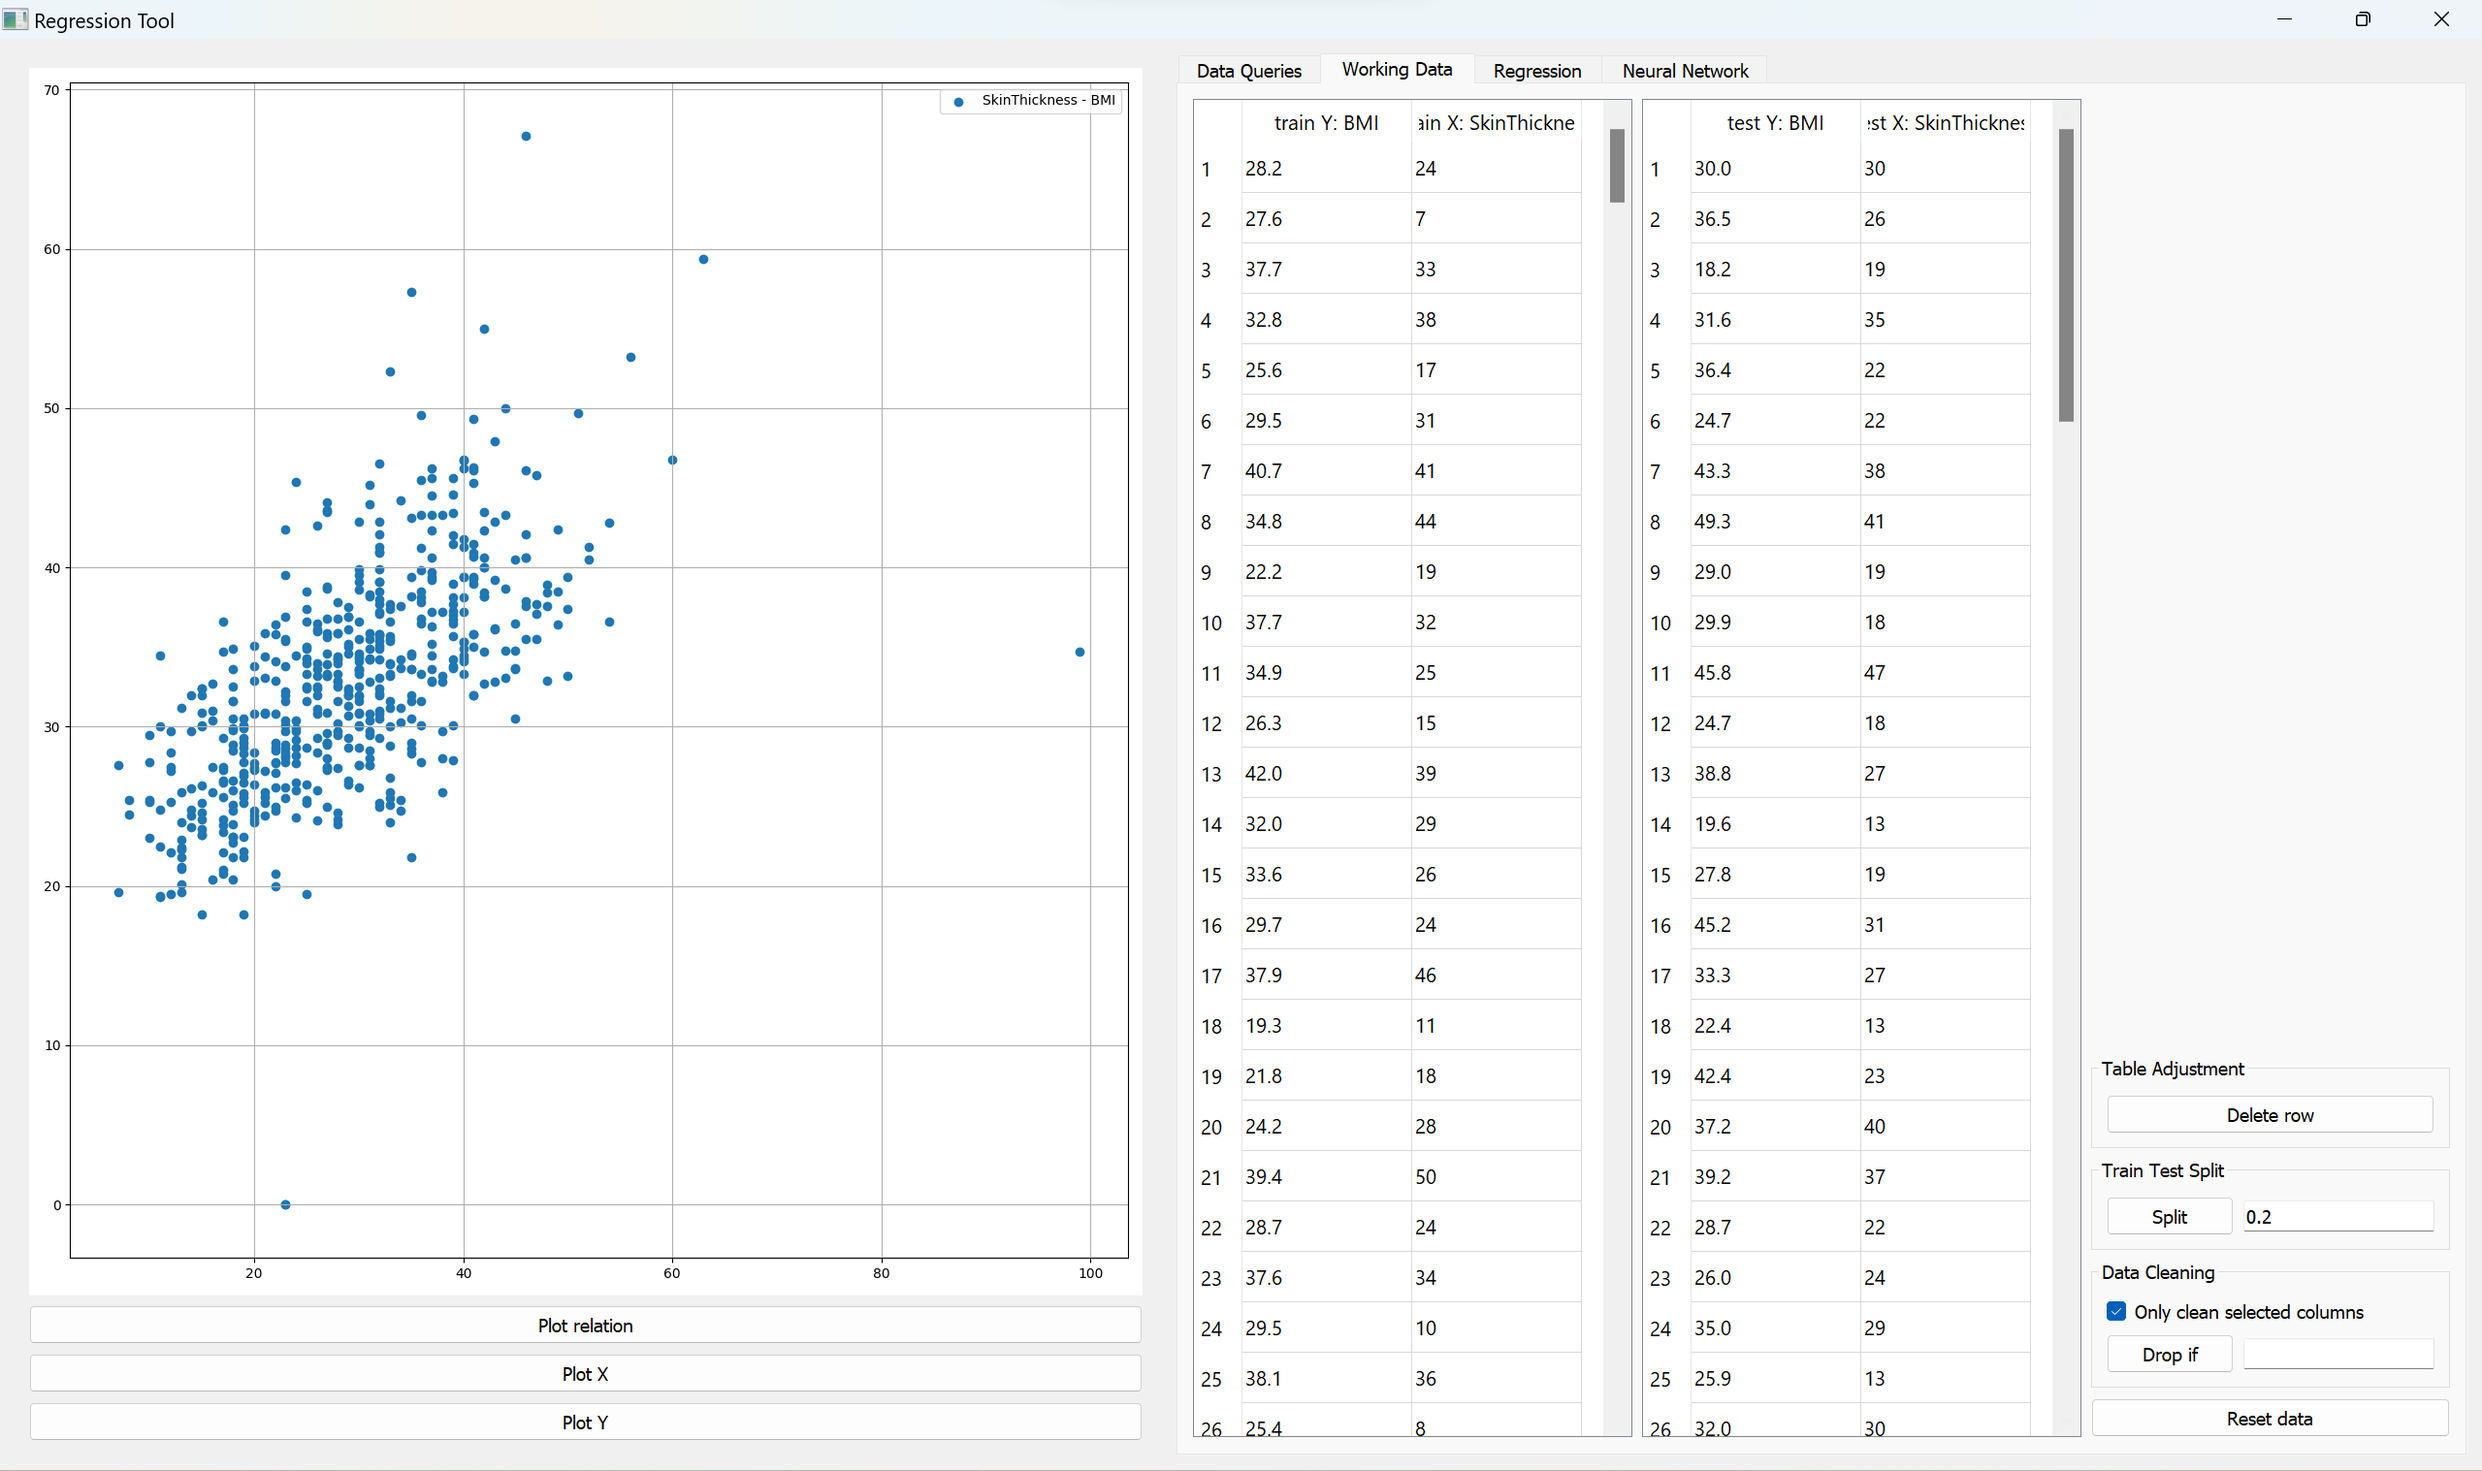
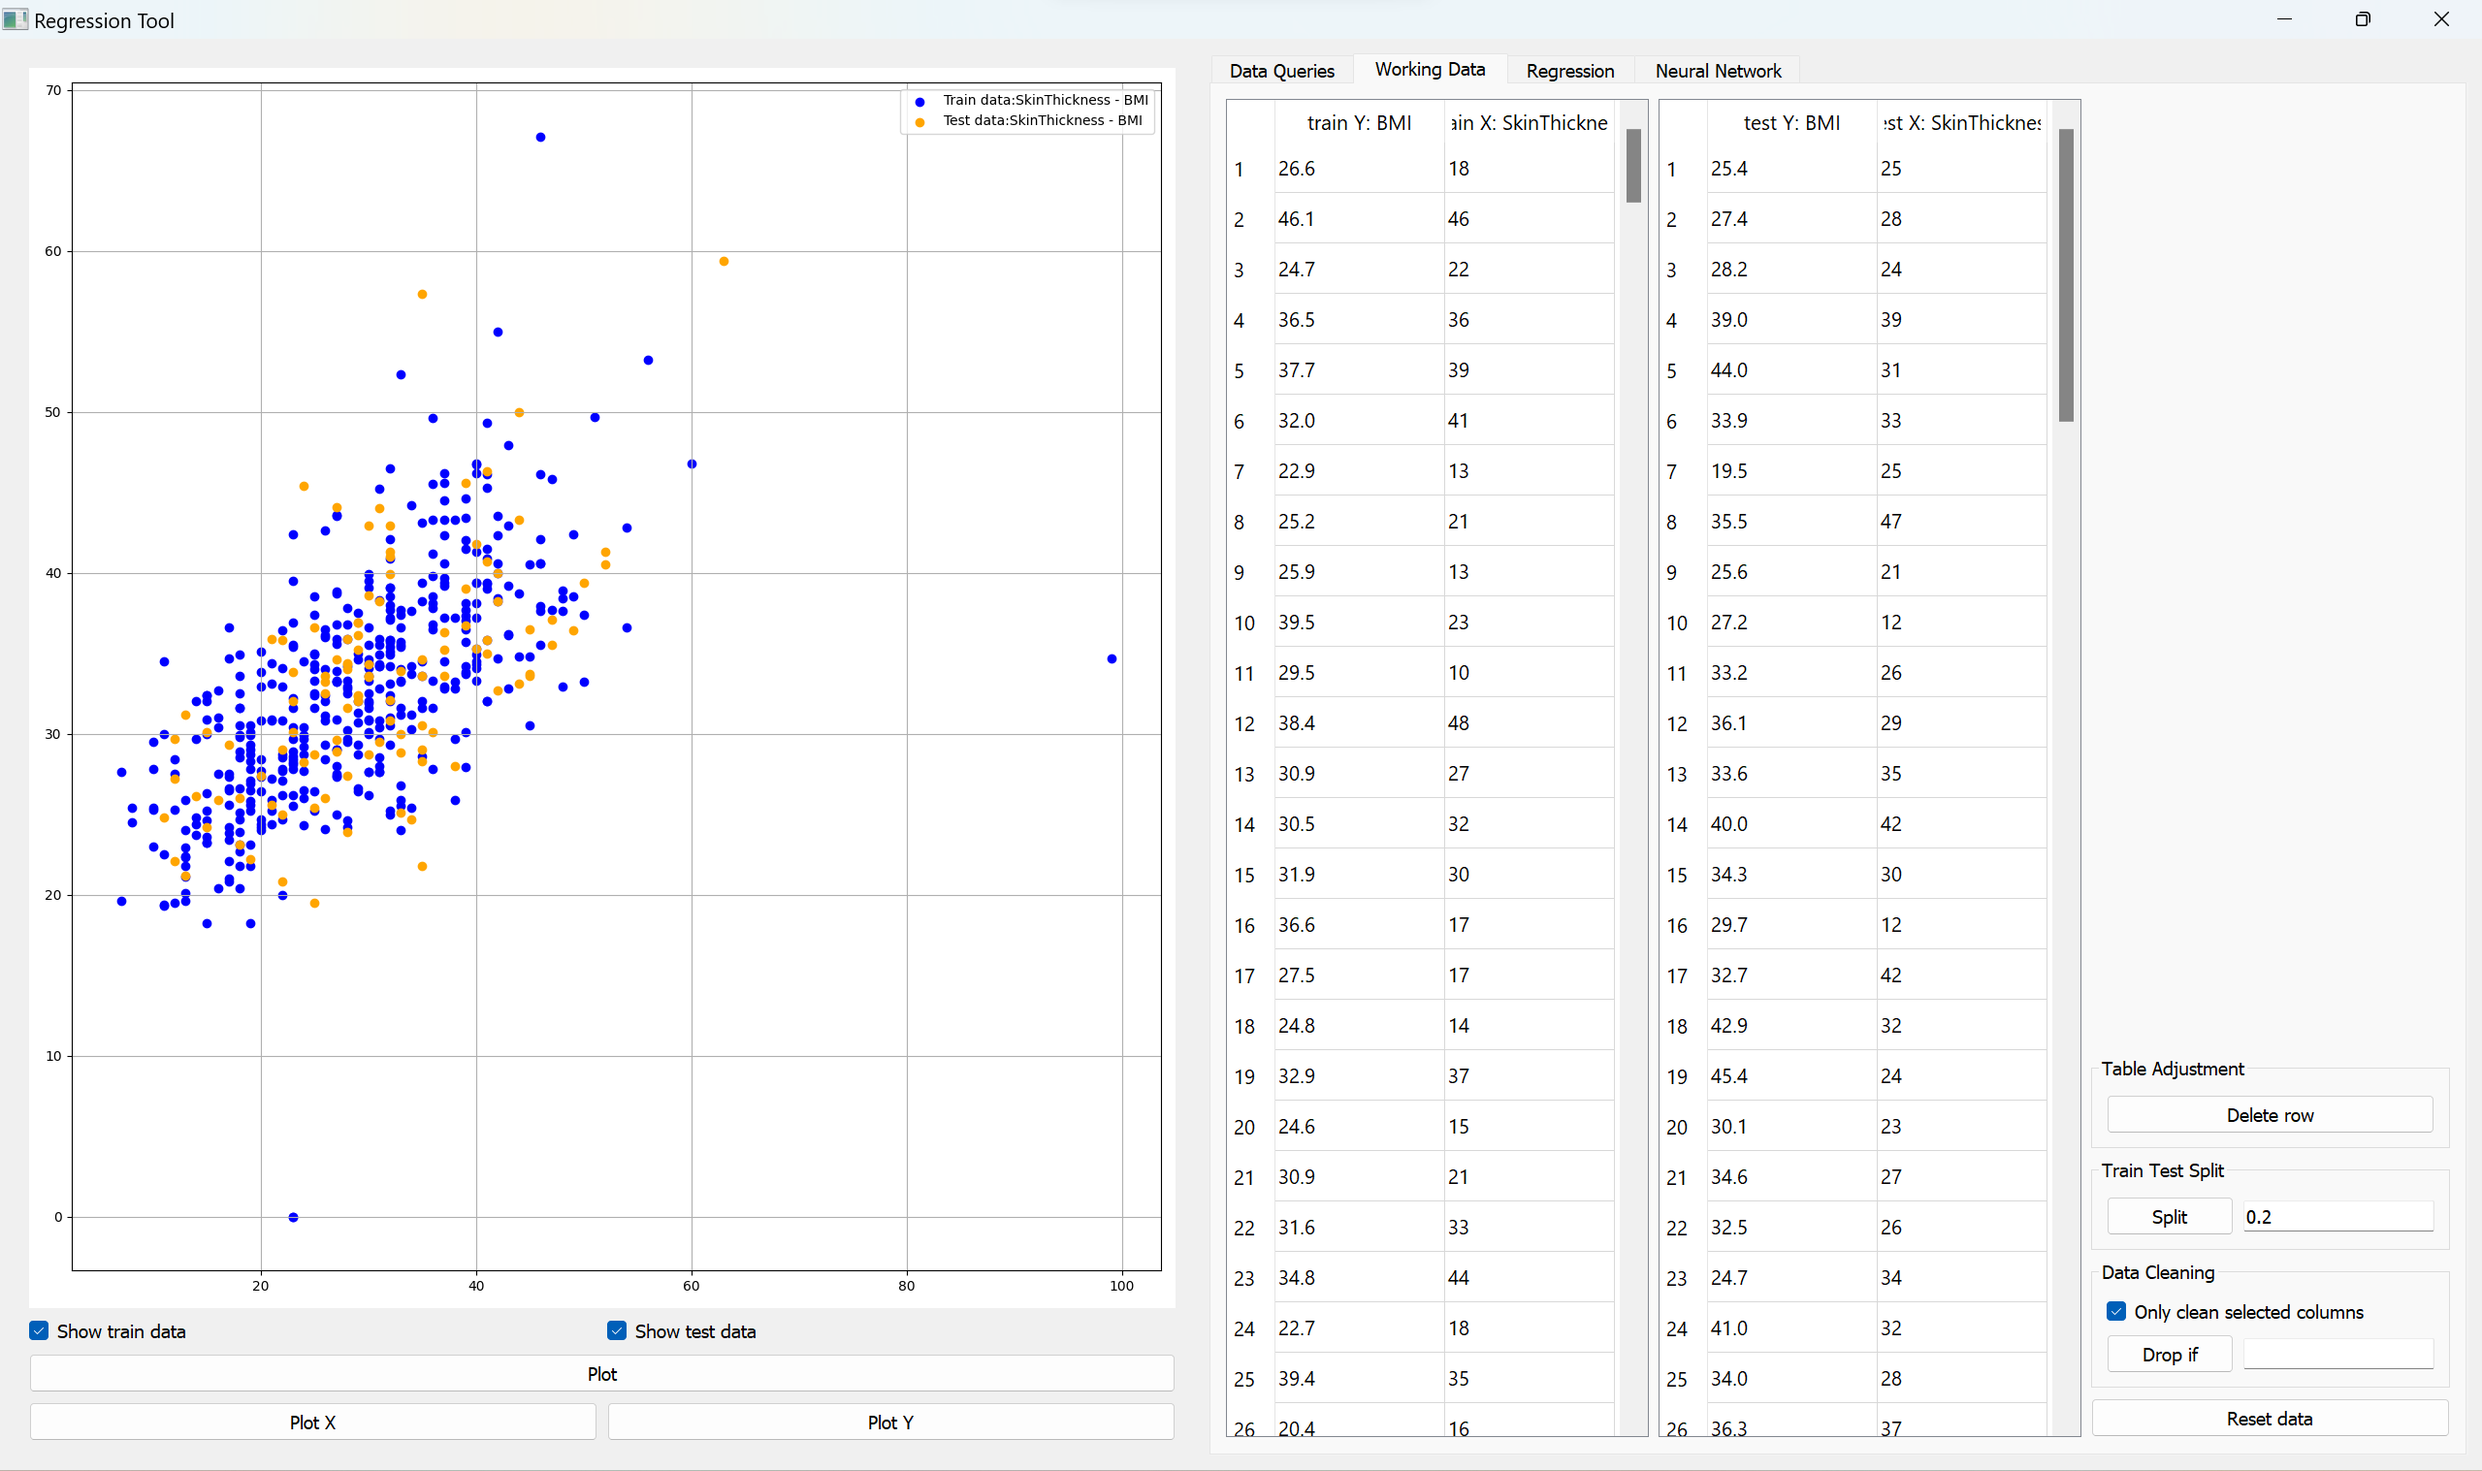
Enable neura network costumization

diff --git a/src/application/mpl_canvas.py b/src/application/mpl_canvas.py
@@ -1,5 +1,4 @@
 from matplotlib.backends.backend_qt5agg import FigureCanvasQTAgg
-from matplotlib.backends.backend_qt5agg import NavigationToolbar2QT
 from matplotlib.figure import Figure
 import numpy as np
 from sklearn.neural_network import MLPRegressor
@@ -39,22 +38,19 @@ class MPLCanvas(QWidget):
     def plot(self):
         self.ax.cla()
 
-        data = [None, None]
         show_train = self.show_train.isChecked()
         show_test = self.show_test.isChecked()
 
-        if show_test and show_train:
-            data[0] = self.plt_data.get_X_col()
-            data[1] = self.plt_data.get_Y_col()
-        elif show_train:
-            data[0] = self.plt_data.x_train
-            data[1] = self.plt_data.y_train
-        elif show_test:
-            data[0] = self.plt_data.x_test
-            data[1] = self.plt_data.y_test
-            
-        label = f"{self.plt_data.columns()[1]} - {self.plt_data.columns()[0]}"
-        self.ax.scatter(data[0], data[1], label=label)
+        x_label = self.plt_data.columns()[1]
+        y_label = self.plt_data.columns()[0]
+
+        if show_train:
+            self.ax.scatter(self.plt_data.x_train, self.plt_data.y_train, label=f"Train data:{x_label} - {y_label}",
+                            c="blue")
+        if show_test:
+            self.ax.scatter(self.plt_data.x_test, self.plt_data.y_test, label=f"Test data:{x_label} - {y_label}",
+                            c="orange")
+
         self.ax.grid(True)
         self.ax.legend()
         self.can.figure.tight_layout()
@@ -63,18 +59,16 @@ class MPLCanvas(QWidget):
     def plot_X(self):
         self.ax.cla()
 
-        label = f"{self.plt_data.columns()[1]}"
-        self.ax.hist(self.plt_data.get_X_col(), label=label, bins=20)
-        self.ax.legend()
+        self.ax.hist(self.plt_data.get_X_col(), bins=20)
+        self.ax.set_xlabel(self.plt_data.columns()[1])
         self.can.figure.tight_layout()
         self.can.draw()
 
     def plot_Y(self):
         self.ax.cla()
 
-        label = f"{self.plt_data.columns()[0]}"
-        self.ax.hist(self.plt_data.get_Y_col(), label=label, bins=20)
-        self.ax.legend()
+        self.ax.hist(self.plt_data.get_Y_col(), bins=20)
+        self.ax.set_xlabel(self.plt_data.columns()[0])
         self.can.figure.tight_layout()
         self.can.draw()
 

diff --git a/src/application/tabs/ann_controller.py b/src/application/tabs/ann_controller.py
@@ -1,4 +1,4 @@
-from PyQt5.QtWidgets import (QWidget, QPushButton,
+from PyQt5.QtWidgets import (QWidget, QPushButton, QLineEdit,
         QTableWidget, QGridLayout, QGroupBox, QLabel, QTextEdit,
         QVBoxLayout, QComboBox)
 from PyQt5.QtCore import Qt
@@ -25,8 +25,7 @@ class ANNController(QWidget):
         self.fit_btn = btn_factory("fit", self.fit_plt_data)
         self.famile_cbbox = QComboBox()
         self.famile_cbbox.addItems(["linear", "logistic", "poisson"])
-        self.degree_cbbox = QComboBox()
-        self.degree_cbbox.addItems([str(i) for i in range(1,6)])
+        self.hidden_layer_entry = QLineEdit()
         self.summary = QTextEdit()
         font = self.summary.currentFont()
         font.setPointSize(10)
@@ -38,29 +37,34 @@ class ANNController(QWidget):
         self.history_ax = self.history_can.figure.add_subplot(111)
 
     def layout(self):
-        family_label = QLabel("Family=")
-        degree_label = QLabel("Degree=")
+        hidden_layer_label = QLabel("Hidden layer information")
 
-        family_layout = couple_layout(family_label, self.famile_cbbox)
-        degree_layout = couple_layout(degree_label, self.degree_cbbox)
+        hidden_layer_layout = couple_layout(hidden_layer_label, self.hidden_layer_entry)
 
         layout = QVBoxLayout()
         layout.addStretch()
         layout.addWidget(self.history_can)
         layout.addWidget(self.summary)
-        layout.addLayout(family_layout)
-        layout.addLayout(degree_layout)
+        layout.addLayout(hidden_layer_layout)
         layout.addWidget(self.fit_btn)
 
         self.setLayout(layout)
 
     def fit_plt_data(self):
-        model, history = ann.fit(self.plt_data, [10,4,4], self.summary)
+        layer_data = string_to_num_list(self.hidden_layer_entry.text())
+        if layer_data is None:
+            return
+
+        model, history = ann.fit(self.plt_data, layer_data)
         loss_history = history.history['loss']
+
+        self.summary.setText(ann.get_model_summary(model))
 
         self.canvas.plot_ann_model(model)
         
         self.history_ax.cla()
         self.history_ax.plot(loss_history)
+        self.history_ax.set_xlabel("Epoch")
+        self.history_ax.set_ylabel("Loss")
         self.history_can.figure.tight_layout()
         self.history_can.draw()

diff --git a/src/logic/ann.py b/src/logic/ann.py
@@ -1,21 +1,27 @@
-import io
-from contextlib import redirect_stdout
 from keras import models
 from keras import layers
 
 from logic.plot_data import PlotData
 
-def fit(plt_data: PlotData, layer_data, textbox):
+def fit(plt_data: PlotData, layer_data):
 
     model = models.Sequential()
-    model.add(layers.Dense(16, activation="relu", input_shape=(1, )))
-    model.add(layers.Dense(16, activation="sigmoid"))
+
+    first_layer = True
+    for N in layer_data:
+        if first_layer:
+            model.add(layers.Dense(N, activation="relu", input_shape=(1, )))
+            first_layer = False
+        else:
+            model.add(layers.Dense(N, activation="relu"))
     model.add(layers.Dense(1, activation="relu"))
 
     model.compile(optimizer='adam', loss='mean_squared_error')
+    history = model.fit(plt_data.x_train, plt_data.y_train, epochs=10, batch_size=32, verbose=2)
 
-    buffer = io.StringIO()
-    with redirect_stdout(buffer):
-        history = model.fit(plt_data.x_train, plt_data.y_train, epochs=10, batch_size=32, verbose=2)
-        textbox.setText(buffer.getvalue())
     return model, history
+
+def get_model_summary(model):
+    string_list = []
+    model.summary(line_length=50, print_fn=lambda x: string_list.append(x))
+    return "\n".join(string_list)

diff --git a/src/util/app_util.py b/src/util/app_util.py
@@ -35,3 +35,9 @@ def get_selected_columns(table: QTableWidget):
             if table.item(row, col).isSelected():
                 indices.append(col)
     return indices
+
+def string_to_num_list(string: str):
+    try:
+        return [int(s.strip()) for s in string.split(",")]
+    except ValueError:
+        return None

diff --git a/README.md b/README.md
@@ -2,6 +2,18 @@
 
 The aim of this application is to provide a visualizing tool for statistic learning. As of now, this application allows you to clean, split, plot and do regression on data. It also contains a naive neural network model.
 
+## Usage
+
+Install all dependencies with command line 
+
+```
+pip install -r requirements.txt
+```
+
+Run `main.py` to use the application.
+
+## Examples
+
 ![example1](examples/example1.png)
 
 *Plotting data*
@@ -13,3 +25,11 @@ The aim of this application is to provide a visualizing tool for statistic learn
 ![example3](examples/example3.png)
 
 *Linear regression*
+
+![example3](examples/example4.png)
+
+*Logistic regression*
+
+![example3](examples/example5.png)
+
+*Neural network*
